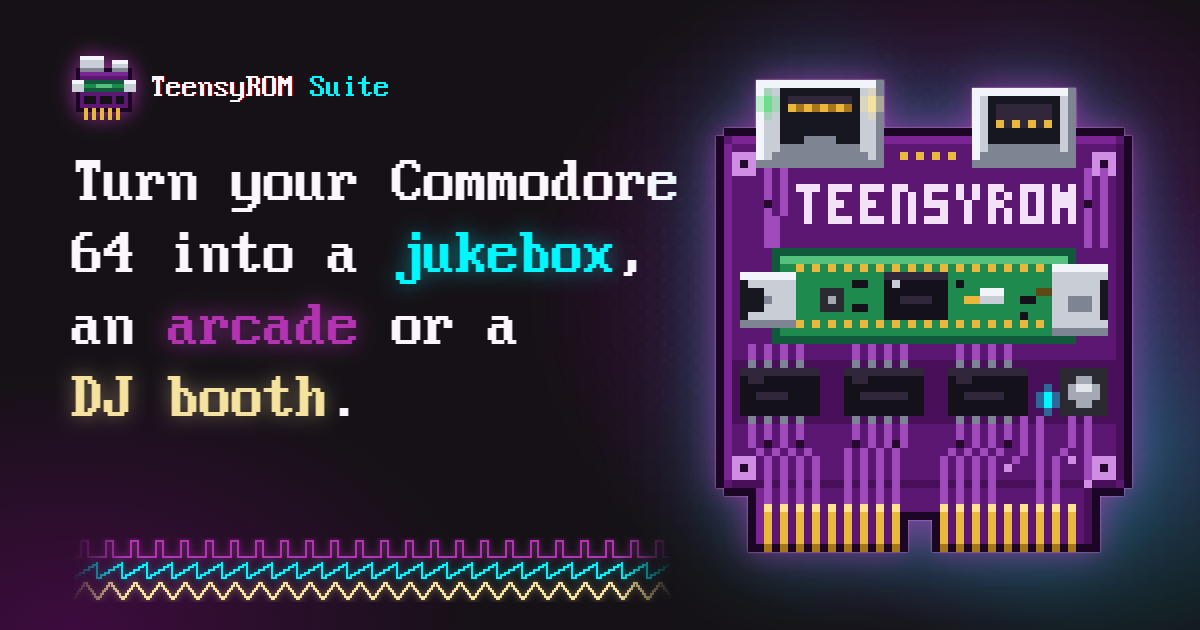
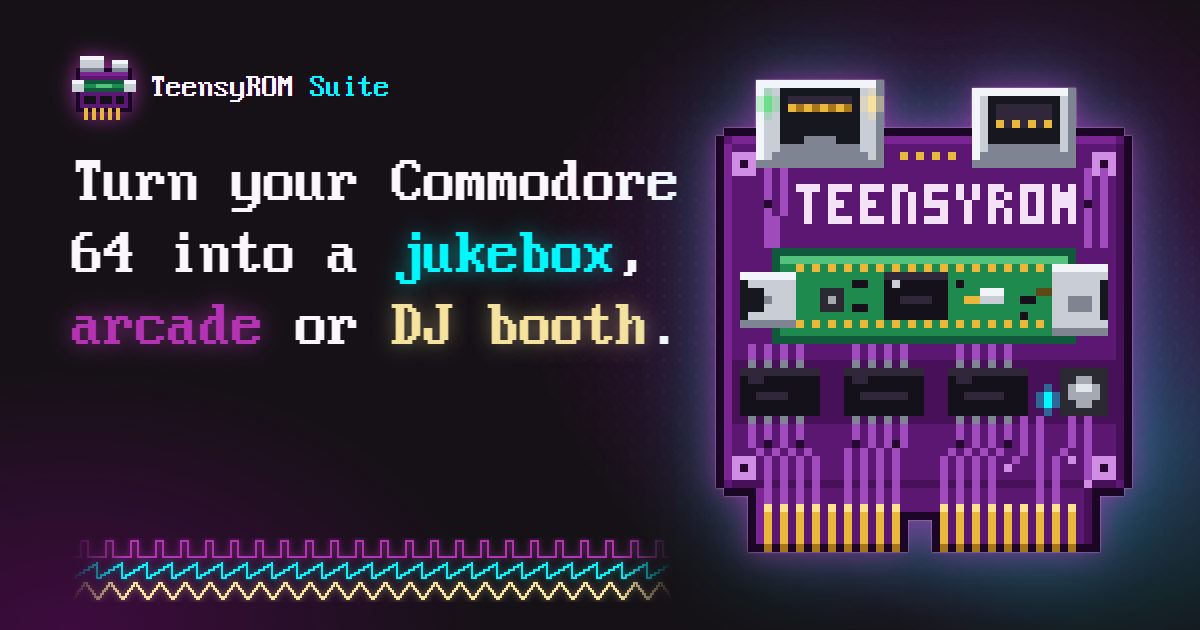
feat(site): shorten the headline to "jukebox, arcade or DJ booth"
Drop the articles from the headline, its title, its Open Graph title and alt text, the README line and the social card source, and re-render the social card.

Changed region(s): [[0.0617, 0.4825, 0.555, 0.6635]]

diff --git a/site/page/index.html b/site/page/index.html
@@ -5,17 +5,17 @@
   <meta name="viewport" content="width=device-width, initial-scale=1">
   <meta http-equiv="Content-Security-Policy" content="default-src 'self'; img-src 'self'; style-src 'self'; script-src 'self'; font-src 'self'; frame-src https://www.youtube-nocookie.com; object-src 'none'; base-uri 'none'; form-action 'none'">
   <meta name="referrer" content="strict-origin-when-cross-origin">
-  <title>TeensyROM Suite · Turn your Commodore 64 into a jukebox, an arcade or a DJ booth</title>
+  <title>TeensyROM Suite · Turn your Commodore 64 into a jukebox, arcade or DJ booth</title>
   <meta name="description" content="Apps for the TeensyROM cartridge. Every game, demo, SID tune and image on your cart, a click, a command or a sentence away, all playing on your real Commodore 64. Free and open source.">
   <meta name="theme-color" content="#151116">
   <meta property="og:type" content="website">
-  <meta property="og:title" content="TeensyROM Suite · Your Commodore 64 as a jukebox, an arcade or a DJ booth">
+  <meta property="og:title" content="TeensyROM Suite · Your Commodore 64 as a jukebox, arcade or DJ booth">
   <meta property="og:description" content="Apps for the TeensyROM cartridge: browse, stream, script and mix everything on your cart. It all plays on your real C64.">
   <meta property="og:url" content="https://metalhexx.github.io/TeensyROM-Suite/">
   <meta property="og:image" content="https://metalhexx.github.io/TeensyROM-Suite/img/og-card.png">
   <meta property="og:image:width" content="1200">
   <meta property="og:image:height" content="630">
-  <meta property="og:image:alt" content="A glowing pixel-art TeensyROM cartridge beside the headline: Turn your Commodore 64 into a jukebox, an arcade or a DJ booth.">
+  <meta property="og:image:alt" content="A glowing pixel-art TeensyROM cartridge beside the headline: Turn your Commodore 64 into a jukebox, arcade or DJ booth.">
   <meta name="twitter:card" content="summary_large_image">
   <link rel="icon" type="image/png" sizes="32x32" href="img/favicon-32.png">
   <link rel="apple-touch-icon" href="img/apple-touch-icon.png">
@@ -50,7 +50,7 @@
       <div class="wrap hero__grid">
         <div class="hero__copy">
           <p class="eyebrow eyebrow--hero"><span class="pip" aria-hidden="true"></span>Apps for the TeensyROM cartridge</p>
-          <h1 class="hero__title" id="hero-title">Turn your Commodore 64 into a <span class="hl hl--cyan">jukebox</span>, an <span class="hl hl--magenta">arcade</span> or a <span class="hl hl--yellow">DJ booth</span>.</h1>
+          <h1 class="hero__title" id="hero-title">Turn your Commodore 64 into a <span class="hl hl--cyan">jukebox</span>, <span class="hl hl--magenta">arcade</span> or <span class="hl hl--yellow">DJ booth</span>.</h1>
           <p class="hero__lede">Every game, demo, SID tune and image on your cart, a click, a command or a sentence away. It all plays on your real C64.</p>
 
           <!-- release:hero:fallback -->

diff --git a/site/tools/art/og-card.html b/site/tools/art/og-card.html
@@ -64,7 +64,7 @@
   <div class="dots"></div>
   <div class="copy">
     <div class="brand"><img src="../../page/img/icon.svg" alt="" width="64" height="64"><span>TeensyROM <b>Suite</b></span></div>
-    <h1>Turn your Commodore 64 into a <span class="c">jukebox</span>, an <span class="m">arcade</span> or a <span class="y">DJ booth</span>.</h1>
+    <h1>Turn your Commodore 64 into a <span class="c">jukebox</span>, <span class="m">arcade</span> or <span class="y">DJ booth</span>.</h1>
   </div>
   <div class="cart">
     <svg viewBox="0 0 56 62" shape-rendering="crispEdges">

diff --git a/README.md b/README.md
@@ -1,7 +1,7 @@
 <h1 align="center">TeensyROM Suite</h1>
 
 <p align="center">
-  <b>Turn your Commodore 64 into a jukebox, an arcade or a DJ booth.</b>
+  <b>Turn your Commodore 64 into a jukebox, arcade or DJ booth.</b>
 </p>
 
 <p align="center">
